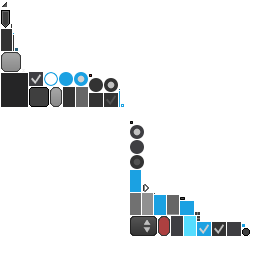
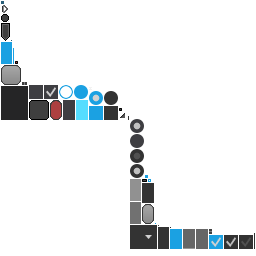
Added VisSelectBox style

Changed region(s): [[0.5, 0.4688, 1.0, 1.0], [0.0, 0.0, 0.5, 0.4688]]

diff --git a/UI/test/pl/kotcrab/vis/ui/test/TestWindow.java b/UI/test/pl/kotcrab/vis/ui/test/TestWindow.java
@@ -23,6 +23,7 @@ import pl.kotcrab.vis.ui.components.VisLabel;
 import pl.kotcrab.vis.ui.components.VisList;
 import pl.kotcrab.vis.ui.components.VisProgressBar;
 import pl.kotcrab.vis.ui.components.VisRadioButton;
+import pl.kotcrab.vis.ui.components.VisSelectBox;
 import pl.kotcrab.vis.ui.components.VisSlider;
 import pl.kotcrab.vis.ui.components.VisTextButton;
 import pl.kotcrab.vis.ui.components.VisTextField;
@@ -38,7 +39,7 @@ public class TestWindow extends VisWindow {
 		TableUtils.setSpaceDefaults(this);
 		columnDefaults(0).left();
 
-		// TODO textarea selectbox scrollpane splitpane
+		// TODO textarea scrollpane splitpane
 
 		VisLabel label = new VisLabel("label");
 
@@ -118,7 +119,16 @@ public class TestWindow extends VisWindow {
 
 		listTable.add(new VisLabel("list: ")).top().spaceRight(10);
 		listTable.add(list);
-		
+
+		// ---
+
+		VisTable selectBoxTable = new VisTable();
+		VisSelectBox<String> selectBox = new VisSelectBox<String>();
+		selectBox.setItems("item 1", "item 2", "item 3", "item 4");
+
+		selectBoxTable.add(new VisLabel("select box: ")).top().spaceRight(6);
+		selectBoxTable.add(selectBox);
+
 		// ---
 
 		add(labelTable).row();
@@ -128,6 +138,7 @@ public class TestWindow extends VisWindow {
 		add(textfieldTable).row();
 		add(progressbarTable).row();
 		add(listTable).row();
+		add(selectBoxTable).row();
 
 		pack();
 		setPositionToCenter();
